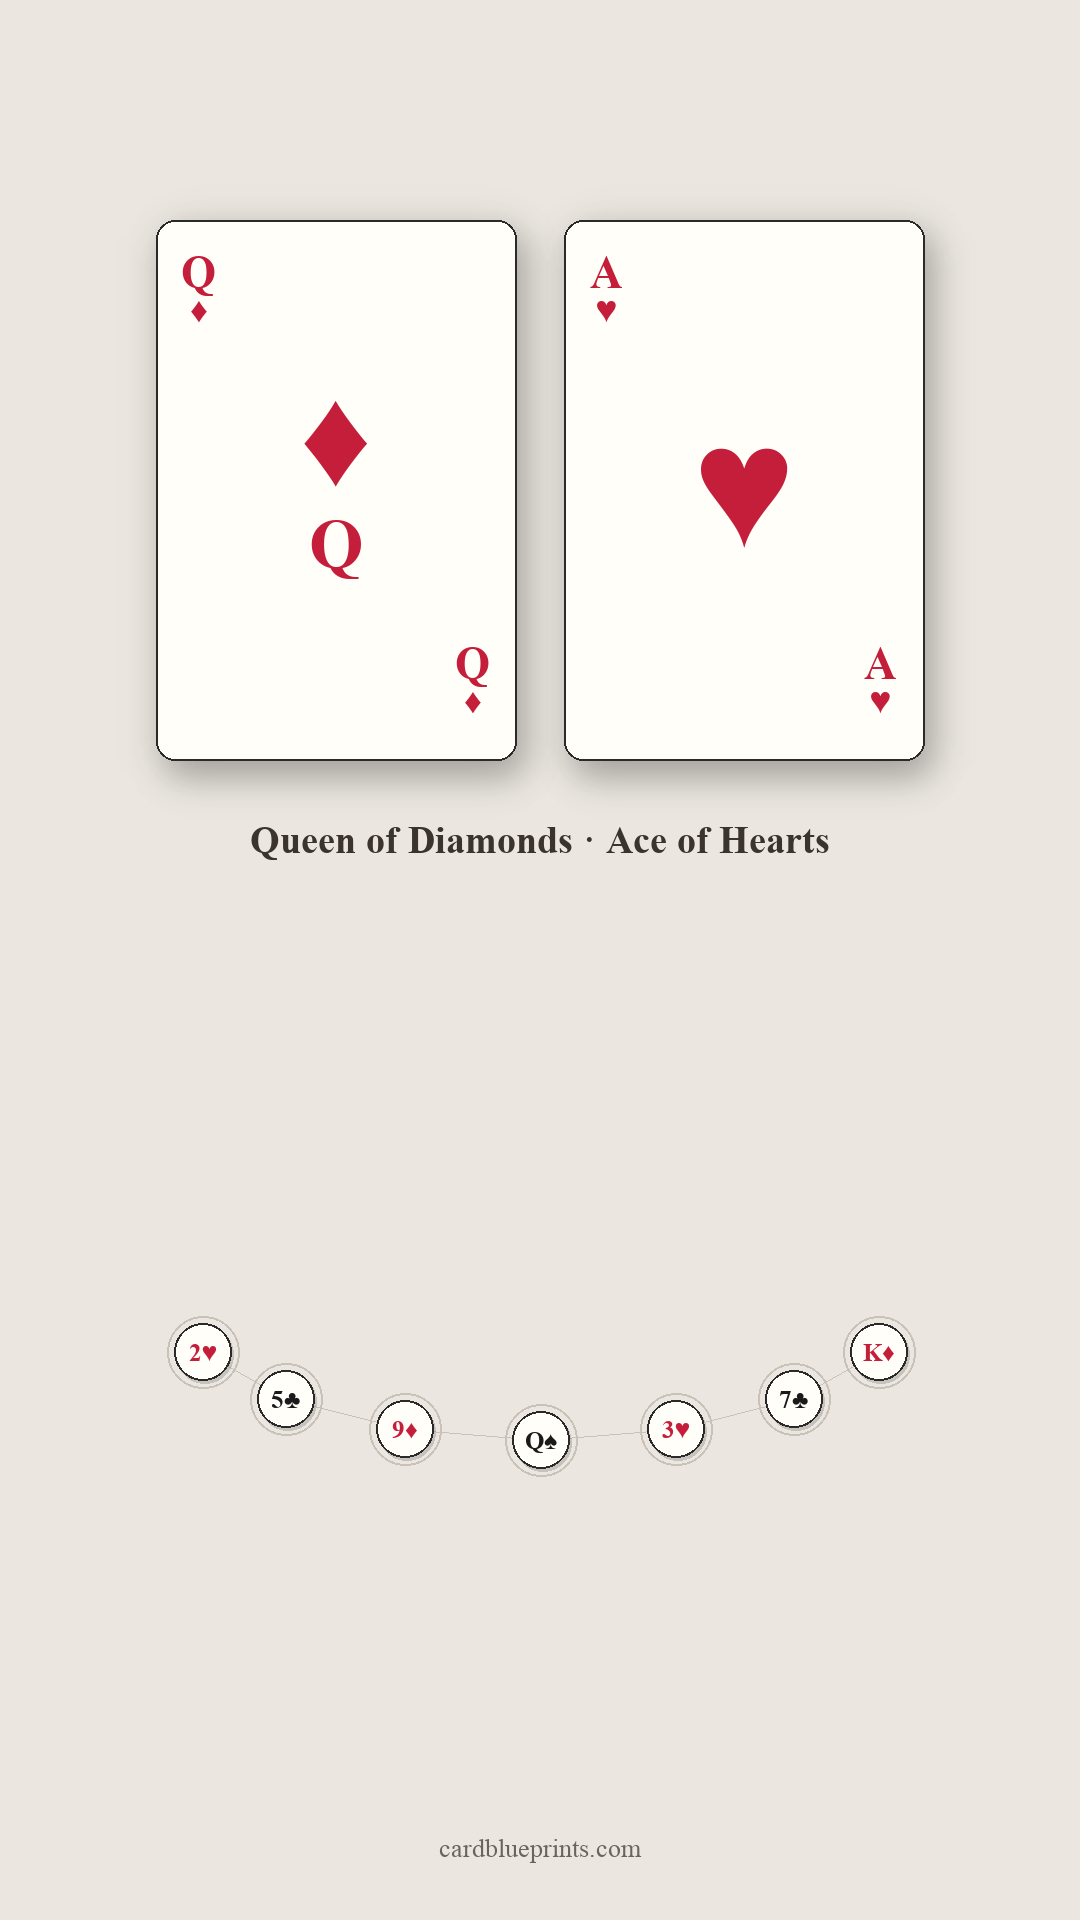
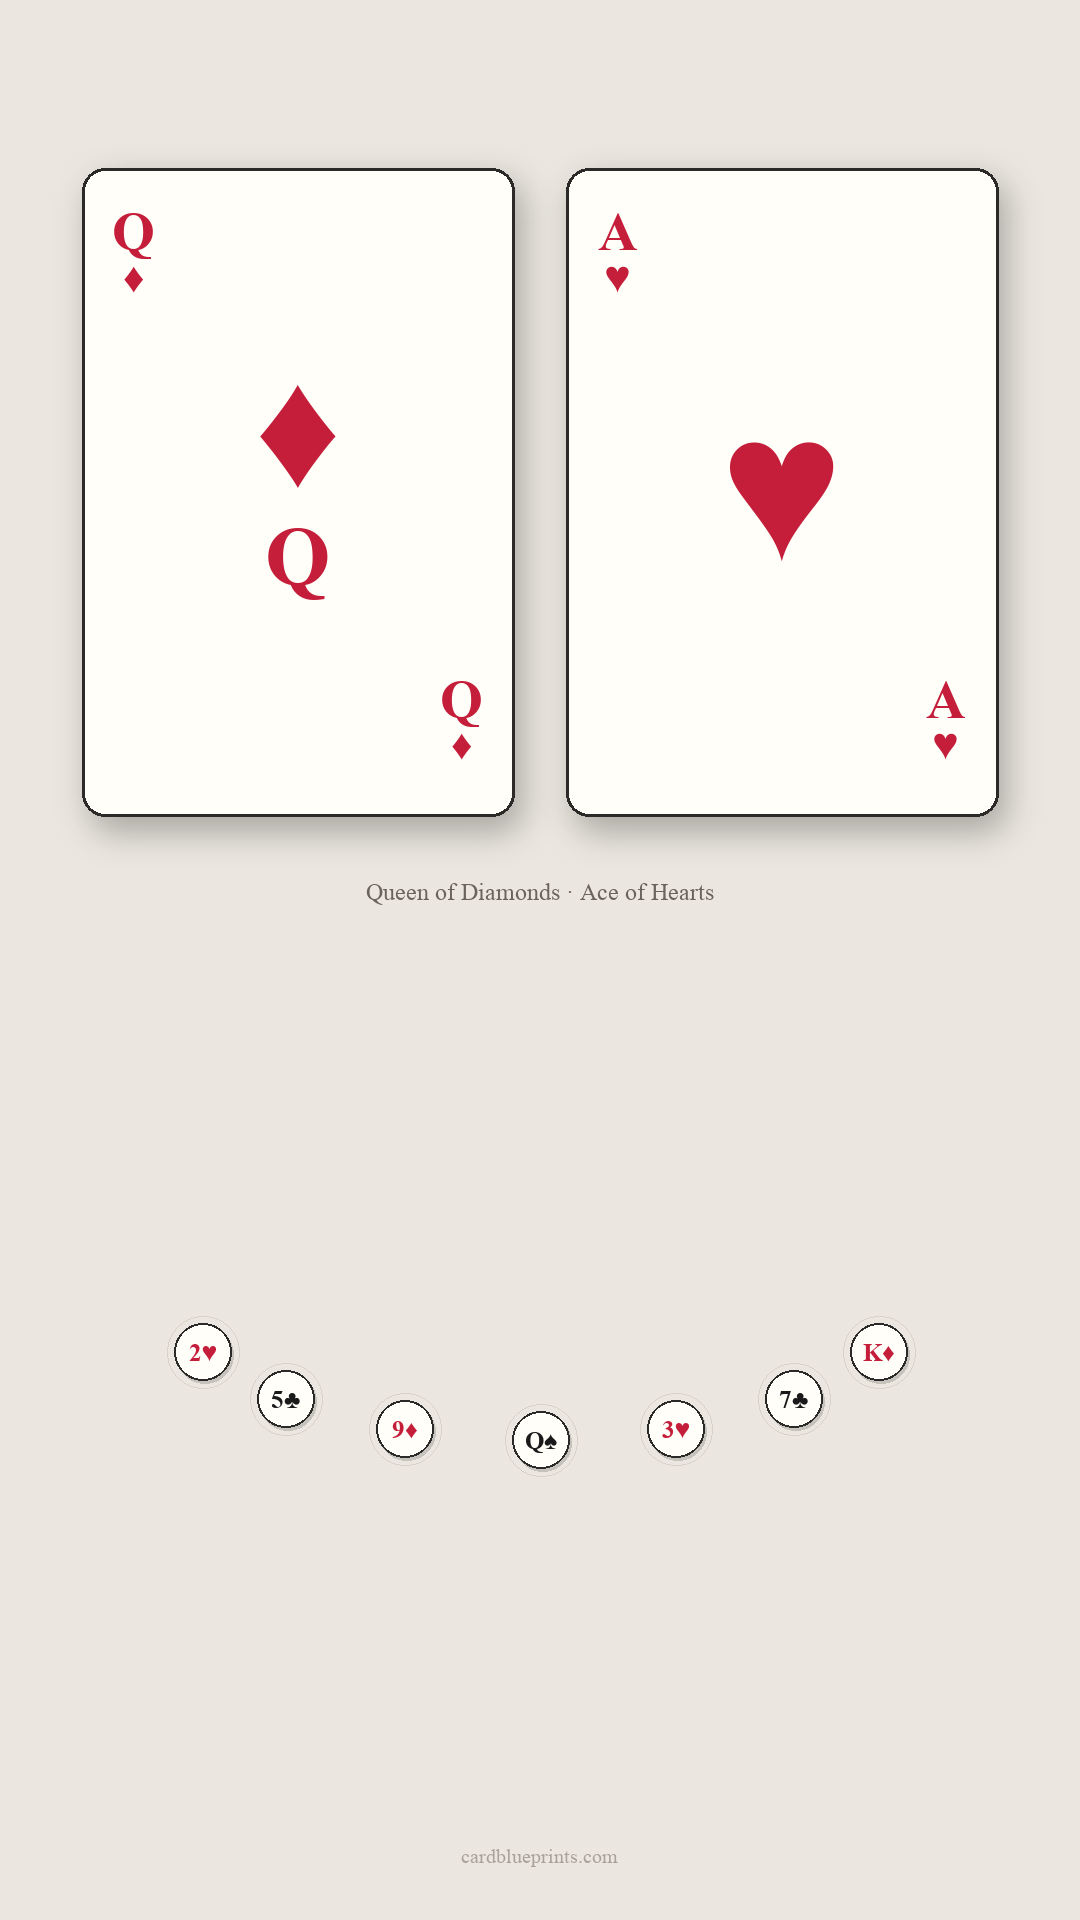
fix(share): clean premium tighten — more card, quiet type, fewer overlays
Enlarge birth/compat cardSlots ~20%; muted lighter labels; flat templates
(no baked shadow blobs); thinner seat rings, connector removed.

diff --git a/lib/share-cards/draw.ts b/lib/share-cards/draw.ts
@@ -14,7 +14,8 @@ const CARD_FACE_BG = "#fffef9";
 /** Thin dark edge (not gold chrome). */
 const CARD_EDGE = "#2c2a28";
 const INK = "#1a1a1a";
-const BAND_INK = "#3a342c";
+/** Muted charcoal — quiet label type under cards. */
+const BAND_INK = "#6a645c";
 /** Standard playing-card red / black. */
 const RED = "#c41e3a";
 const BLACK = "#1a1a1a";
@@ -238,12 +239,17 @@ export function drawLabelInBand(
   ctx.fillStyle = BAND_INK;
   ctx.textAlign = "center";
   ctx.textBaseline = "middle";
+  // Quiet premium type: lighter weight, smaller, soft tracking
+  if ("letterSpacing" in ctx) {
+    (ctx as CanvasRenderingContext2D & { letterSpacing: string }).letterSpacing =
+      "0.04em";
+  }
 
-  let size = Math.floor(band.h * 0.48);
-  ctx.font = `600 ${size}px "Times New Roman", Georgia, serif`;
-  while (size > 22 && ctx.measureText(safe).width > band.w * 0.92) {
+  let size = Math.floor(band.h * 0.38);
+  ctx.font = `400 ${size}px "Times New Roman", Georgia, serif`;
+  while (size > 18 && ctx.measureText(safe).width > band.w * 0.92) {
     size -= 2;
-    ctx.font = `600 ${size}px "Times New Roman", Georgia, serif`;
+    ctx.font = `400 ${size}px "Times New Roman", Georgia, serif`;
   }
   ctx.fillText(safe, band.x + band.w / 2, band.y + band.h / 2, band.w * 0.96);
   ctx.restore();

diff --git a/scripts/share-cards.test.ts b/scripts/share-cards.test.ts
@@ -175,13 +175,17 @@ test("photo-real faces + plain neutral templates (no ornate chrome)", () => {
   expect(drawSrc).toContain("PIPS");
   expect(drawSrc).toContain('identity.kind === "joker"');
   expect(drawSrc).toContain("JOKER");
-  // Generator brief: plain field, no gold frame / dashed slots
+  // Generator brief: plain field, flat templates, no gold / dashed / baked shadows
   const gen = read("scripts/generate_share_card_templates.py");
   expect(gen).toContain("0xEB, 0xE7, 0xE0");
-  expect(gen).toContain("soft_card_shadow");
+  expect(gen).not.toContain("soft_card_shadow");
+  expect(gen).toContain("Almost flat field");
   expect(gen).not.toMatch(/draw_frame\(/);
   expect(gen).not.toMatch(/dashed_rect\(/);
   expect(gen).not.toContain("GOLD = ");
+  // Quiet type in draw
+  expect(drawSrc).toContain("#6a645c");
+  expect(drawSrc).toMatch(/400 \$\{size\}px/);
 });
 
 test("lifePathSeatCenters returns measured template coords", () => {

diff --git a/scripts/generate_share_card_templates.py b/scripts/generate_share_card_templates.py
@@ -1,6 +1,7 @@
 #!/usr/bin/env python3
 """Generate FINAL share-card templates + mute composite samples.
 
+Clean premium tighten: more card, quiet type, fewer overlays.
 Plain-neutral field + photo-real card faces (Cass veto: no ornate chrome).
 
 Outputs:
@@ -10,11 +11,11 @@ Outputs:
   public/share-cards/samples/compat-queen-diamonds-ace-hearts.png
 
 Locks:
-  - watermark cardblueprints.com only text on template
-  - flat neutral bg (~#ebe7e0), almost no chrome
+  - watermark cardblueprints.com only text on template (quiet)
+  - flat neutral bg (~#ebe7e0); templates almost flat — no baked shadow blobs
   - NO dashed card-slot guides / name-band dashes on FINAL templates
   - NO ornate gold frames / sunbursts / filigree
-  - Life Path seats at measured circle centers (layout.json)
+  - Life Path seats at measured circle centers (layout.json); thin/light rings
   - Sample labels are card names only (no price / banned words)
   - Joker never silent K♠ (samples use real cards only)
 
@@ -38,7 +39,7 @@ W, H = 1080, 1920
 # Soft warm gray — plain neutral field
 FIELD = (0xEB, 0xE7, 0xE0)
 INK = (0x2A, 0x26, 0x22)
-BAND_INK = (0x3A, 0x34, 0x2C)
+BAND_INK = (0x6A, 0x64, 0x5C)  # muted charcoal — quiet type
 # Photo-real card stock
 CARD_FACE_BG = (0xFF, 0xFE, 0xF9)
 CARD_EDGE = (0x2C, 0x2A, 0x28)
@@ -46,7 +47,7 @@ CARD_EDGE = (0x2C, 0x2A, 0x28)
 RED = (0xC4, 0x1E, 0x3A)
 BLACK = (0x1A, 0x1A, 0x1A)
 # Subtle neutral chrome (not gold)
-NEUTRAL_RING = (0xC8, 0xC2, 0xB8)
+NEUTRAL_RING = (0xD8, 0xD2, 0xC8)  # thinner/lighter seat rings
 WATERMARK = "cardblueprints.com"
 
 SUIT_MAP = {"♥": "hearts", "♦": "diamonds", "♣": "clubs", "♠": "spades"}
@@ -123,25 +124,9 @@ def load_layout() -> dict:
 
 
 def draw_watermark(d: ImageDraw.ImageDraw, text: str = WATERMARK):
-    f = font(FONT_SERIF_REG, 26)
-    # Soft neutral ink — only text on the template
-    d.text((W / 2, 1848), text, font=f, fill=(0x6A, 0x64, 0x5C), anchor="mm")
-
-
-def soft_card_shadow(base: Image.Image, slot: dict, blur: int = 32, alpha: int = 16):
-    """Hairline soft shadow zone under a card slot — minimal chrome, no dashes."""
-    overlay = Image.new("RGBA", (W, H), (0, 0, 0, 0))
-    od = ImageDraw.Draw(overlay)
-    x, y, w, h = slot["x"], slot["y"], slot["w"], slot["h"]
-    r = int(min(w, h) * 0.06)
-    # Slight offset downward for a natural resting shadow
-    od.rounded_rectangle(
-        [x + 6, y + 10, x + w + 6, y + h + 14],
-        radius=r,
-        fill=(0, 0, 0, alpha),
-    )
-    blurred = overlay.filter(ImageFilter.GaussianBlur(blur))
-    return Image.alpha_composite(base.convert("RGBA"), blurred)
+    f = font(FONT_SERIF_REG, 20)
+    # Quieter watermark — smaller + lower-contrast ink
+    d.text((W / 2, 1856), text, font=f, fill=(0xA8, 0xA2, 0x9A), anchor="mm")
 
 
 def base_canvas() -> Image.Image:
@@ -149,33 +134,27 @@ def base_canvas() -> Image.Image:
 
 
 def draw_life_path_rings(d: ImageDraw.ImageDraw, seats: list[dict]):
-    """7 subtle neutral seat rings at measured seatCenters — no gold, no filigree."""
-    for i in range(len(seats) - 1):
-        a, b = seats[i], seats[i + 1]
-        d.line([(a["x"], a["y"]), (b["x"], b["y"])], fill=NEUTRAL_RING, width=1)
+    """7 thin/light seat rings at measured seatCenters — no connector, no gold."""
     for s in seats:
         r = s["r"]
         d.ellipse(
             [s["x"] - r, s["y"] - r, s["x"] + r, s["y"] + r],
             outline=NEUTRAL_RING,
-            width=2,
+            width=1,
         )
 
 
 def make_birth_template(layout: dict) -> Image.Image:
+    # Almost flat field + quiet watermark — cards cast their own drop shadow in draw
     img = base_canvas()
-    # Soft shadow zone only — NO dashed rectangle, NO ornate frame
-    img = soft_card_shadow(img, layout["birthResult"]["cardSlot"], blur=32, alpha=16).convert("RGB")
     d = ImageDraw.Draw(img)
     draw_watermark(d)
     return img
 
 
 def make_compat_template(layout: dict) -> Image.Image:
-    img = base_canvas().convert("RGBA")
-    for slot in layout["compatDuel"]["cardSlots"]:
-        img = soft_card_shadow(img, slot, blur=26, alpha=14)
-    img = img.convert("RGB")
+    # Flat field + very subtle seat rings + quiet watermark — no baked card shadows
+    img = base_canvas()
     d = ImageDraw.Draw(img)
     seats = layout["compatDuel"]["lifePathBoard"]["seatCenters"]
     draw_life_path_rings(d, seats)
@@ -360,13 +339,14 @@ def draw_label_in_band(d: ImageDraw.ImageDraw, band: dict, label: str):
             raise ValueError(f"banned word in sample label: {label}")
     if "$" in label or "deep dive" in lower:
         raise ValueError(f"price/fate copy in sample label: {label}")
-    size = int(band["h"] * 0.48)
-    while size > 22:
-        f = font(FONT_SERIF, size)
+    # Quiet type: regular weight, smaller, soft letter-spacing
+    size = int(band["h"] * 0.38)
+    while size > 18:
+        f = font(FONT_SERIF_REG, size)
         if d.textlength(label, font=f) <= band["w"] * 0.92:
             break
         size -= 2
-    f = font(FONT_SERIF, size)
+    f = font(FONT_SERIF_REG, size)
     d.text(
         (band["x"] + band["w"] / 2, band["y"] + band["h"] / 2),
         label,
@@ -520,17 +500,17 @@ def main():
     print(f"wrote {p2.relative_to(ROOT)}")
 
     for sample in (birth_sample, compat_sample):
-        dark = 0
+        ink = 0
         px = sample.load()
-        for y in range(1825, 1870):
-            for x in range(420, 660):
-                # watermark is mid-gray now; count non-field pixels
+        for y in range(1835, 1880):
+            for x in range(400, 680):
+                # quieter watermark — count any deviation from field
                 p = px[x, y]
-                if abs(p[0] - FIELD[0]) > 20 or abs(p[1] - FIELD[1]) > 20:
-                    dark += 1
-        if dark < 20:
+                if abs(p[0] - FIELD[0]) > 8 or abs(p[1] - FIELD[1]) > 8:
+                    ink += 1
+        if ink < 12:
             raise SystemExit("sample missing watermark ink near bottom")
-    print("OK samples: watermark present; labels locked in draw_label_in_band")
+    print("OK samples: quiet watermark present; labels locked in draw_label_in_band")
 
     sync_hermes()
 
